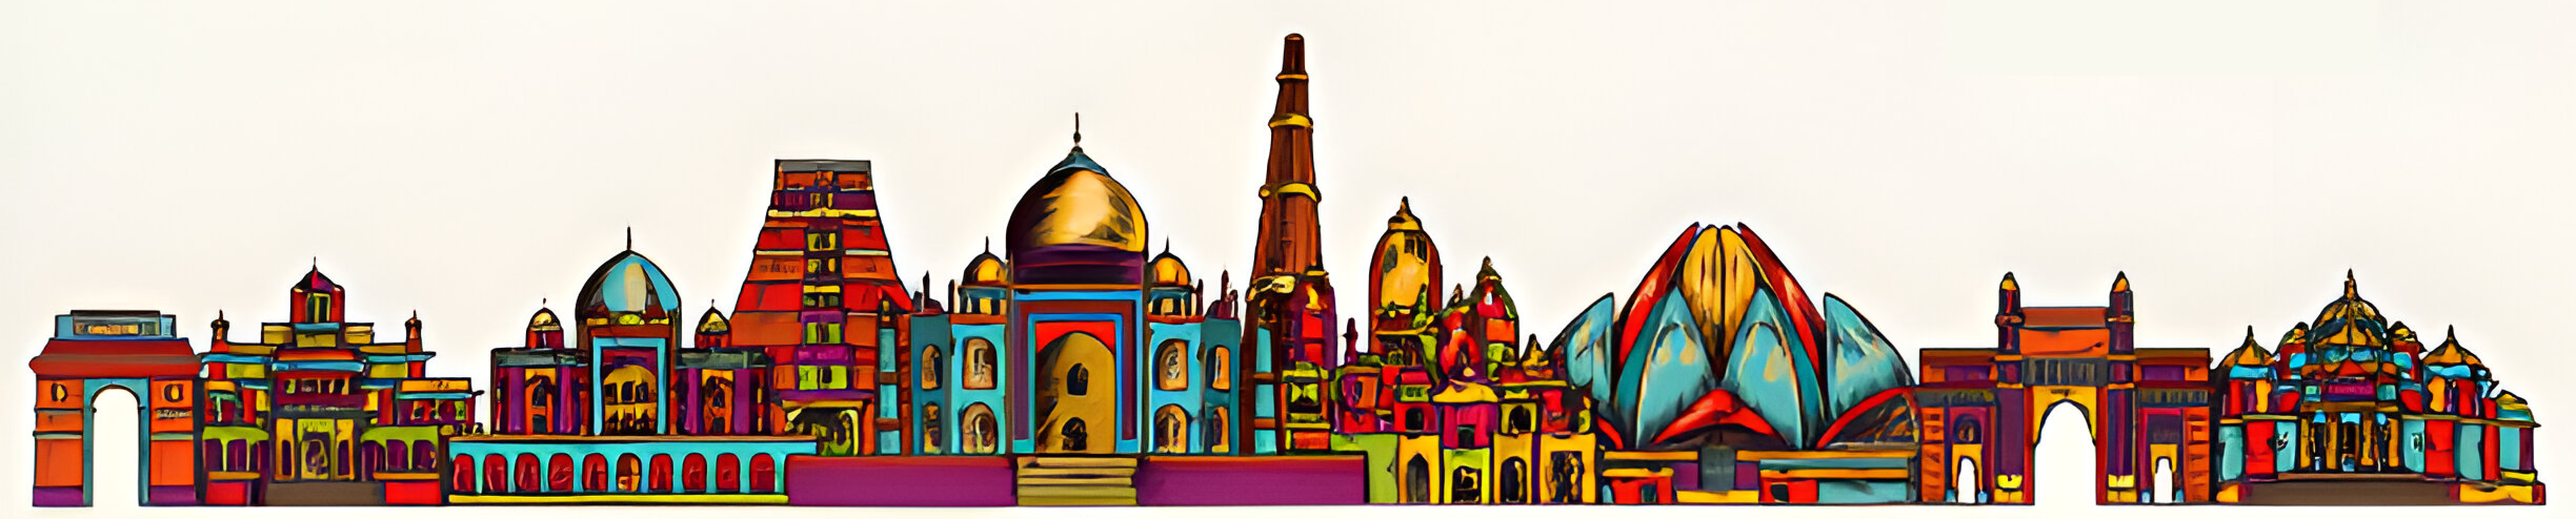
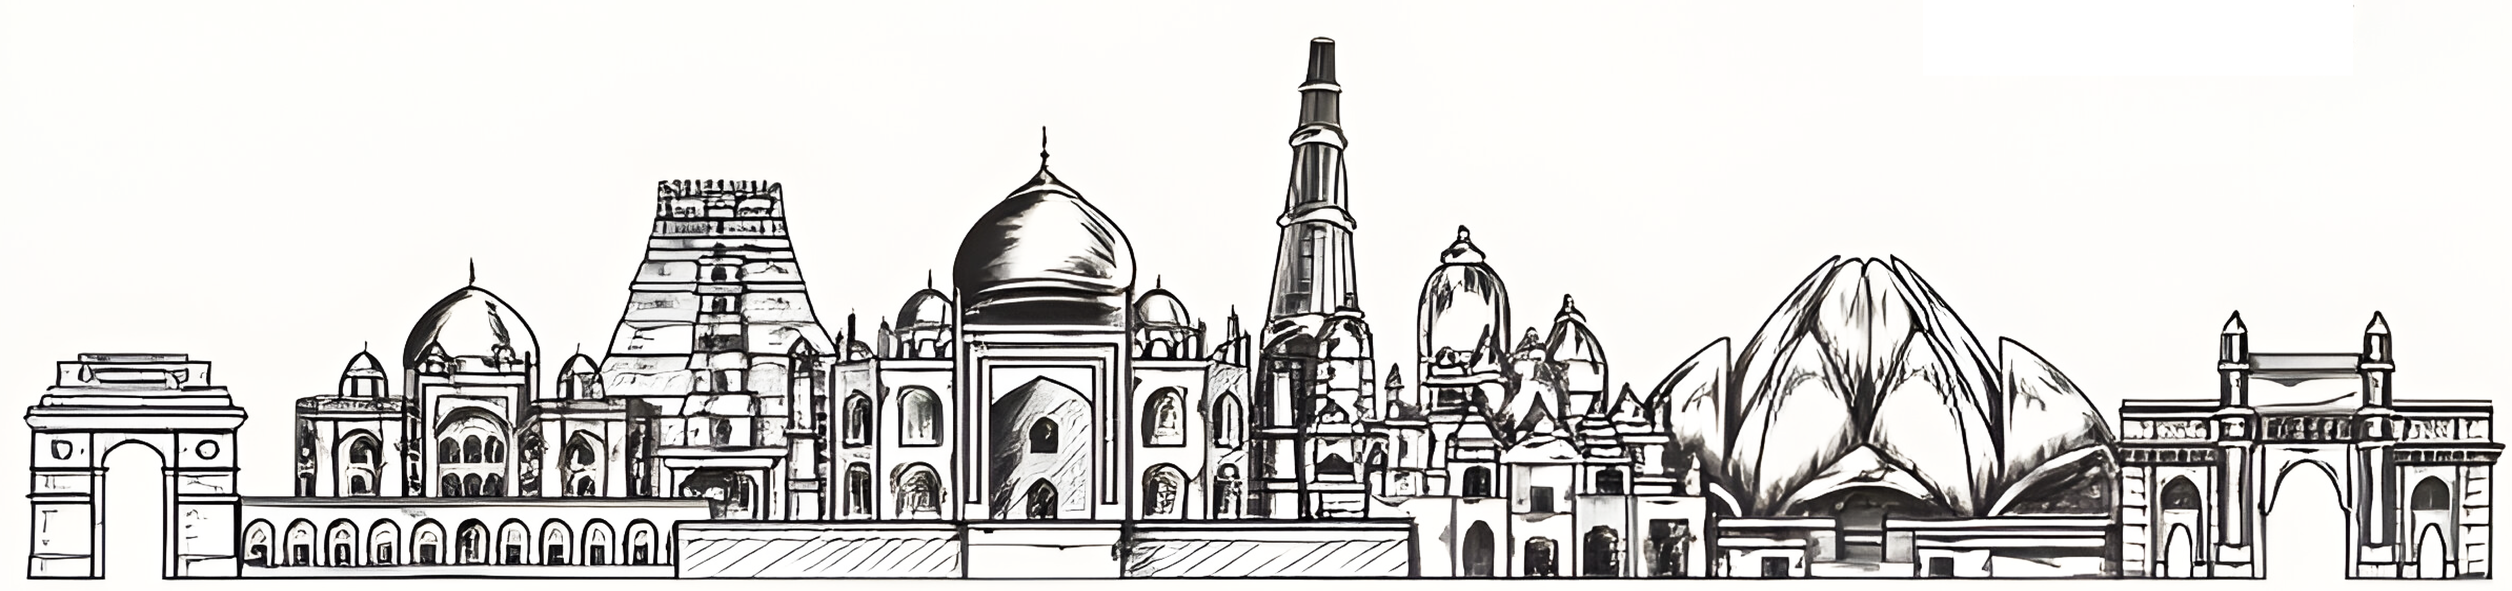
Minor changes

diff --git a/src/app/components/hero/hero.component.html b/src/app/components/hero/hero.component.html
@@ -1,108 +1,3 @@
-<!-- <section class="hero-section overflow-hidden position-relative">
-  <div class="video-overlay"></div>
-
-     <div class="overlay position-absolute top-0 start-0 w-100 h-100 z-1"></div>
-
-  <div class="hero-image position-absolute top-0 start-0">
-    <img
-      src="assets/images/hero/india-gate-2.jpg"
-      alt="Hero Image"
-      class="w-100 h-100 object-fit-cover"
-    />
-  </div> 
-
-  <video autoplay loop muted class="video-background p-0">
-    <source
-      src="https://www.dropbox.com/scl/fi/5hyfl52vsbj8y294mg45q/ng-India24-cropped.mp4?rlkey=k0yd7a9qbs49qp8fqneeukz2s&raw=1"
-      type="video/mp4"
-    />
-    Your browser does not support the video tag.
-  </video>
-
-  <div class="hero-text position-relative z-1 vh-100">
-    <h2 class="font-38 font-family-poppins nmc-white text-center mb-3">
-      ng-India
-      <sup class="font-20 nmc-bg-primary p-2 nmc-white">7th Edition</sup>
-    </h2>
-
-    <h1 class="font-family-poppins nmc-white typewriter">
-      India's Largest <b class="nmc-primary">Angular</b> Conference!
-    </h1>
-
-    <p class="mt-4 font-26 nmc-white text-center">
-      April 5th, 2025 | Delhi, India
-    </p>
-  </div>
-
-   <div
-    class="hero-circles d-flex align-items-center justify-content-center gap-4 mt-5"
-  >
-    <div class="hero-circle  d-flex">
-      <h3 class="nmc-white font-24 text-center m-auto">
-        <span class="font-38 d-block font-family-poppins"> 10 </span>
-        Talks
-      </h3>
-    </div>
-
-    <div class="hero-circle  d-flex">
-      <h3 class="nmc-white font-24 text-center m-auto">
-        <span class="font-38 d-block font-family-poppins"> 6 </span>
-        Speakers
-      </h3>
-    </div>
-
-    <div class="hero-circle rounded-circle d-flex">
-      <h3 class="nmc-white font-24 text-center m-auto">
-        <span class="font-38 d-block font-family-poppins"> 500+ </span>
-        Delegates
-      </h3>
-    </div>
-
-    <div class="hero-circle rounded-circle d-flex">
-      <h3 class="nmc-white font-24 text-center m-auto">
-        <span class="font-38 d-block font-family-poppins"> 20 </span>
-        Sponsors
-      </h3>
-    </div>
-  </div> 
-</section> -->
-
-<!-- <section class="hero-section overflow-hidden position-relative py-5">
-  <div class="container-boxed">
-    <div
-      class="d-flex justify-content-between align-items-center flex-column flex-lg-row"
-    >
-      <div class="hero-text w-60 text-center text-lg-start">
-        <h2 class="font-38 font-family-poppins nmc-primary mb-3">
-          ng-India
-          <sup
-            class="font-18 nmc-bg-dark-grey py-1 px-2 nmc-white position-relative"
-            >7th Edition</sup
-          >
-        </h2>
-
-        <h1 class="fw-bolder nmc-dark-grey">
-          India's Largest <br class="d-none d-lg-block" />
-          <span class="nmc-primary">Angular</span>
-          Conference!
-        </h1>
-
-        <p class="mt-2 font-26 nmc-dark-grey">April 5th, 2025 | Delhi, India</p>
-      </div>
-
-      <div class="hero-image w-40 mt-2 mt-sm-3 mt-lg-0">
-        <img
-          src="assets/images/hero/hero2.gif"
-          alt="Word Cloud Image"
-          class="word-cloud-image"
-        />
-      </div>
-    </div>
-  </div>
-</section> -->
-
-<!-- <app-tag-slider /> -->
-<div class="min-vh-100">
 <section class="hero-section overflow-hidden position-relative pt-3">
   <div class="container-boxed">
     <div
@@ -163,73 +58,8 @@
   </div>
 
   <img
-    src="assets/images/hero/hero-bg-2.png"
+    src="assets/images/hero/hero-bg-5.png"
     alt="Indian Monuments"
-    class="hero-image object-fit-cover position-relative"
+    class="hero-image object-fit-cover position-relative mt-3 mx-auto"
   />
 </section>
-
-
-<!-- <section class="event-summary py-5">
-  <div class="container-boxed">
-    <div class="row align-items-stretch justify-content-center g-4">
-      <div class="col-12 col-sm-6 col-lg-3">
-        <div class="event-card d-flex flex-column h-100 nmc-bg-olive">
-          <h3 class="nmc-dark-grey font-24 text-center m-0 p-4">
-            <i
-              class="bi bi-calendar-event font-50 nmc-dark-grey mb-2 d-block"
-            ></i
-            >Day
-            <span class="font-48 d-block font-family-poppins mt-2"> 1 </span>
-          </h3>
-
-          <h5 class="nmc-dark-grey font-24 text-center m-auto p-4 w-100">
-            9 Hrs deep-dive learning
-          </h5>
-        </div>
-      </div>
-
-      <div class="col-12 col-sm-6 col-lg-3">
-        <div class="event-card d-flex flex-column h-100 nmc-bg-yellow">
-          <h3 class="nmc-dark-grey font-24 text-center m-0 p-4">
-            <i class="bi bi-chat-dots font-50 nmc-dark-grey mb-2 d-block"></i>
-            Talks
-            <span class="font-48 d-block font-family-poppins mt-2"> 15 </span>
-          </h3>
-
-          <h5 class="nmc-dark-grey font-24 text-center m-auto p-4 w-100">
-            Live Coding based talks
-          </h5>
-        </div>
-      </div>
-
-      <div class="col-12 col-sm-6 col-lg-3">
-        <div class="event-card d-flex flex-column h-100 nmc-bg-grape">
-          <h3 class="nmc-dark-grey font-24 text-center m-0 p-4">
-            <i class="bi bi-mic font-50 nmc-dark-grey mb-2 d-block"></i>Speakers
-            <span class="font-48 d-block font-family-poppins mt-2"> 15 </span>
-          </h3>
-
-          <h5 class="nmc-dark-grey font-24 text-center m-auto p-4 w-100">
-            Experts sharing their knowledge
-          </h5>
-        </div>
-      </div>
-
-      <div class="col-12 col-sm-6 col-lg-3">
-        <div class="event-card d-flex flex-column h-100 nmc-bg-peach">
-          <h3 class="nmc-dark-grey font-24 text-center m-0 p-4">
-            <i class="bi bi-people font-50 nmc-dark-grey mb-2 d-block"></i
-            >Delegates
-            <span class="font-48 d-block font-family-poppins mt-2"> 500+ </span>
-          </h3>
-
-          <h5 class="nmc-dark-grey font-24 text-center m-auto p-4 w-100">
-            Enthusiasts learning together
-          </h5>
-        </div>
-      </div>
-    </div>
-  </div>
-</section> -->
-</div>

diff --git a/src/app/components/hero/hero.component.scss b/src/app/components/hero/hero.component.scss
@@ -10,8 +10,7 @@
     // padding: 200px 0 300px;
 
     .hero-image {
-        bottom: 0;
-        right: 0;
+        max-height: 200px;
     }
 
     .text-bottom-line::after {
@@ -38,37 +37,14 @@
     }
 }
 
-.event-summary .event-card {
-    box-shadow: rgba(0, 0, 0, 0.1) 0px 1px 3px 0px, rgba(0, 0, 0, 0.06) 0px 1px 2px 0px;
-
-    h5 {
-        border-top: 1px solid $nmc-dark-grey;
-    }
-}
-
-@media (max-width: 1199px) {
-    .event-summary {
-        h5 {
-            font-size: 23px !important;
-        }
-    }
-}
-
 @media (max-width: 1099px) {
-    .event-summary {
-        h5 {
-            font-size: 21px !important;
-        }
-    }
+    // .hero-section {
+    //     padding-bottom: 20px;
 
-    .hero-section {
-
-        padding-bottom: 20px;
-
-        .hero-image {
-            bottom: -20px;
-        }
-    }
+    //     .hero-image {
+    //         bottom: -20px;
+    //     }
+    // }
 }
 
 @media (max-width: 767px) {
@@ -103,15 +79,14 @@
             h2 {
                 font-size: 34px !important;
             }
-
         }
     }
 }
 
 @media (max-width: 425px) {
     .hero-section {
-        padding-top: 1.5rem !important;
-        padding-bottom: 1.5rem !important;
+        // padding-top: 1.5rem !important;
+        // padding-bottom: 1.5rem !important;
 
         .hero-text {
             h1 {

diff --git a/src/app/components/about/about.component.html b/src/app/components/about/about.component.html
@@ -71,14 +71,14 @@
   </div>
 </section> -->
 
-<section class="about-section py-5 nmc-bg-light">
+<section class="about-section pb-5 pt-4 pt-xl-5">
   <div class="container-boxed">
-    <h3 class="nmc-dark-grey font-30 text-start font-normal">
-      The <b class="nmc-primary">ng-India </b> is one of the biggest Angular conferences in the
-      world. Every year, it brings together over 500 web developers, including
-      experts like GDEs, authors, MVPs, and open-source contributors from 15+
-      countries. Join us to learn new things, meet amazing people, hire talent,
-      and get inspired!
+    <h3 class="nmc-dark-grey font-30 text-start font-normal m-0">
+      The <b class="nmc-primary">ng-India </b> is one of the biggest Angular
+      conferences in the world. Every year, it brings together over 500 web
+      developers, including experts like GDEs, authors, MVPs, and open-source
+      contributors from 15+ countries. Join us to learn new things, meet amazing
+      people, hire talent, and get inspired!
     </h3>
   </div>
 </section>

diff --git a/src/app/components/home/home.component.ts b/src/app/components/home/home.component.ts
@@ -7,7 +7,7 @@ import { PricingComponent } from "../pricing/pricing.component";
 import { AboutComponent } from "../about/about.component";
 import { ViewportScroller } from '@angular/common';
 import { ActivatedRoute } from '@angular/router';
-import { StatsComponent } from '../../stats/stats.component';
+import { StatsComponent } from '../stats/stats.component';
 
 @Component({
   selector: 'app-home',
@@ -37,7 +37,7 @@ export class HomeComponent implements AfterViewInit {
     this.route.fragment.subscribe((fragment: string | null) => {
       if (fragment) {
         setTimeout(() => {
-          const yOffset = 88; 
+          const yOffset = 88;
           const anchorPos = this.viewportScroller.getScrollPosition();
           const element = document.getElementById(fragment);
           if (element) {
@@ -50,6 +50,6 @@ export class HomeComponent implements AfterViewInit {
       }
     });
   }
-  
+
 
 }

diff --git a/src/app/components/hero/hero.component.ts b/src/app/components/hero/hero.component.ts
@@ -1,12 +1,10 @@
 import { Component, computed, effect, Signal, signal, WritableSignal } from '@angular/core';
 import { RouterModule } from '@angular/router';
-import { StatsComponent } from '../../stats/stats.component';
-import { AboutComponent } from '../about/about.component';
 
 @Component({
   selector: 'app-hero',
   standalone: true,
-  imports: [RouterModule, StatsComponent, AboutComponent],
+  imports: [RouterModule],
   templateUrl: './hero.component.html',
   styleUrl: './hero.component.scss'
 })

diff --git a/src/app/components/stats/stats.component.scss b/src/app/components/stats/stats.component.scss
@@ -1,0 +1,25 @@
+@use "../../styles/variables" as *;
+
+.event-summary .event-card {
+    box-shadow: rgba(0, 0, 0, 0.1) 0px 1px 3px 0px, rgba(0, 0, 0, 0.06) 0px 1px 2px 0px;
+
+    h5 {
+        border-top: 1px solid $nmc-dark-grey;
+    }
+}
+
+@media (max-width: 1199px) {
+    .event-summary {
+        h5 {
+            font-size: 23px !important;
+        }
+    }
+}
+
+@media (max-width: 1099px) {
+    .event-summary {
+        h5 {
+            font-size: 21px !important;
+        }
+    }
+}

diff --git a/src/app/components/pricing/pricing.component.html b/src/app/components/pricing/pricing.component.html
@@ -1,7 +1,7 @@
 <section class="pricing-section py-5 nmc-bg-white">
   <div class="container-boxed">
     <div class="text-center heading mb-5">
-      <h2 class="mb-4 text-bottom-line position-relative">Pricing</h2>
+      <h2 class="mb-4 text-bottom-line position-relative">Tickets</h2>
     </div>
 
     <div class="row g-4 align-items-stretch justify-content-center">

diff --git a/src/app/components/stats/stats.component.html b/src/app/components/stats/stats.component.html
@@ -1,4 +1,4 @@
-<section class="event-summary py-5">
+<section class="event-summary py-5 nmc-bg-light">
   <div class="container-boxed">
     <div class="row align-items-stretch justify-content-center g-4">
       <div class="col-12 col-sm-6 col-lg-3">

diff --git a/src/app/components/home/home.component.html b/src/app/components/home/home.component.html
@@ -2,7 +2,7 @@
 
 <app-about />
 
-<app-stats/>
+<app-stats />
 
 <app-speakers />
 
